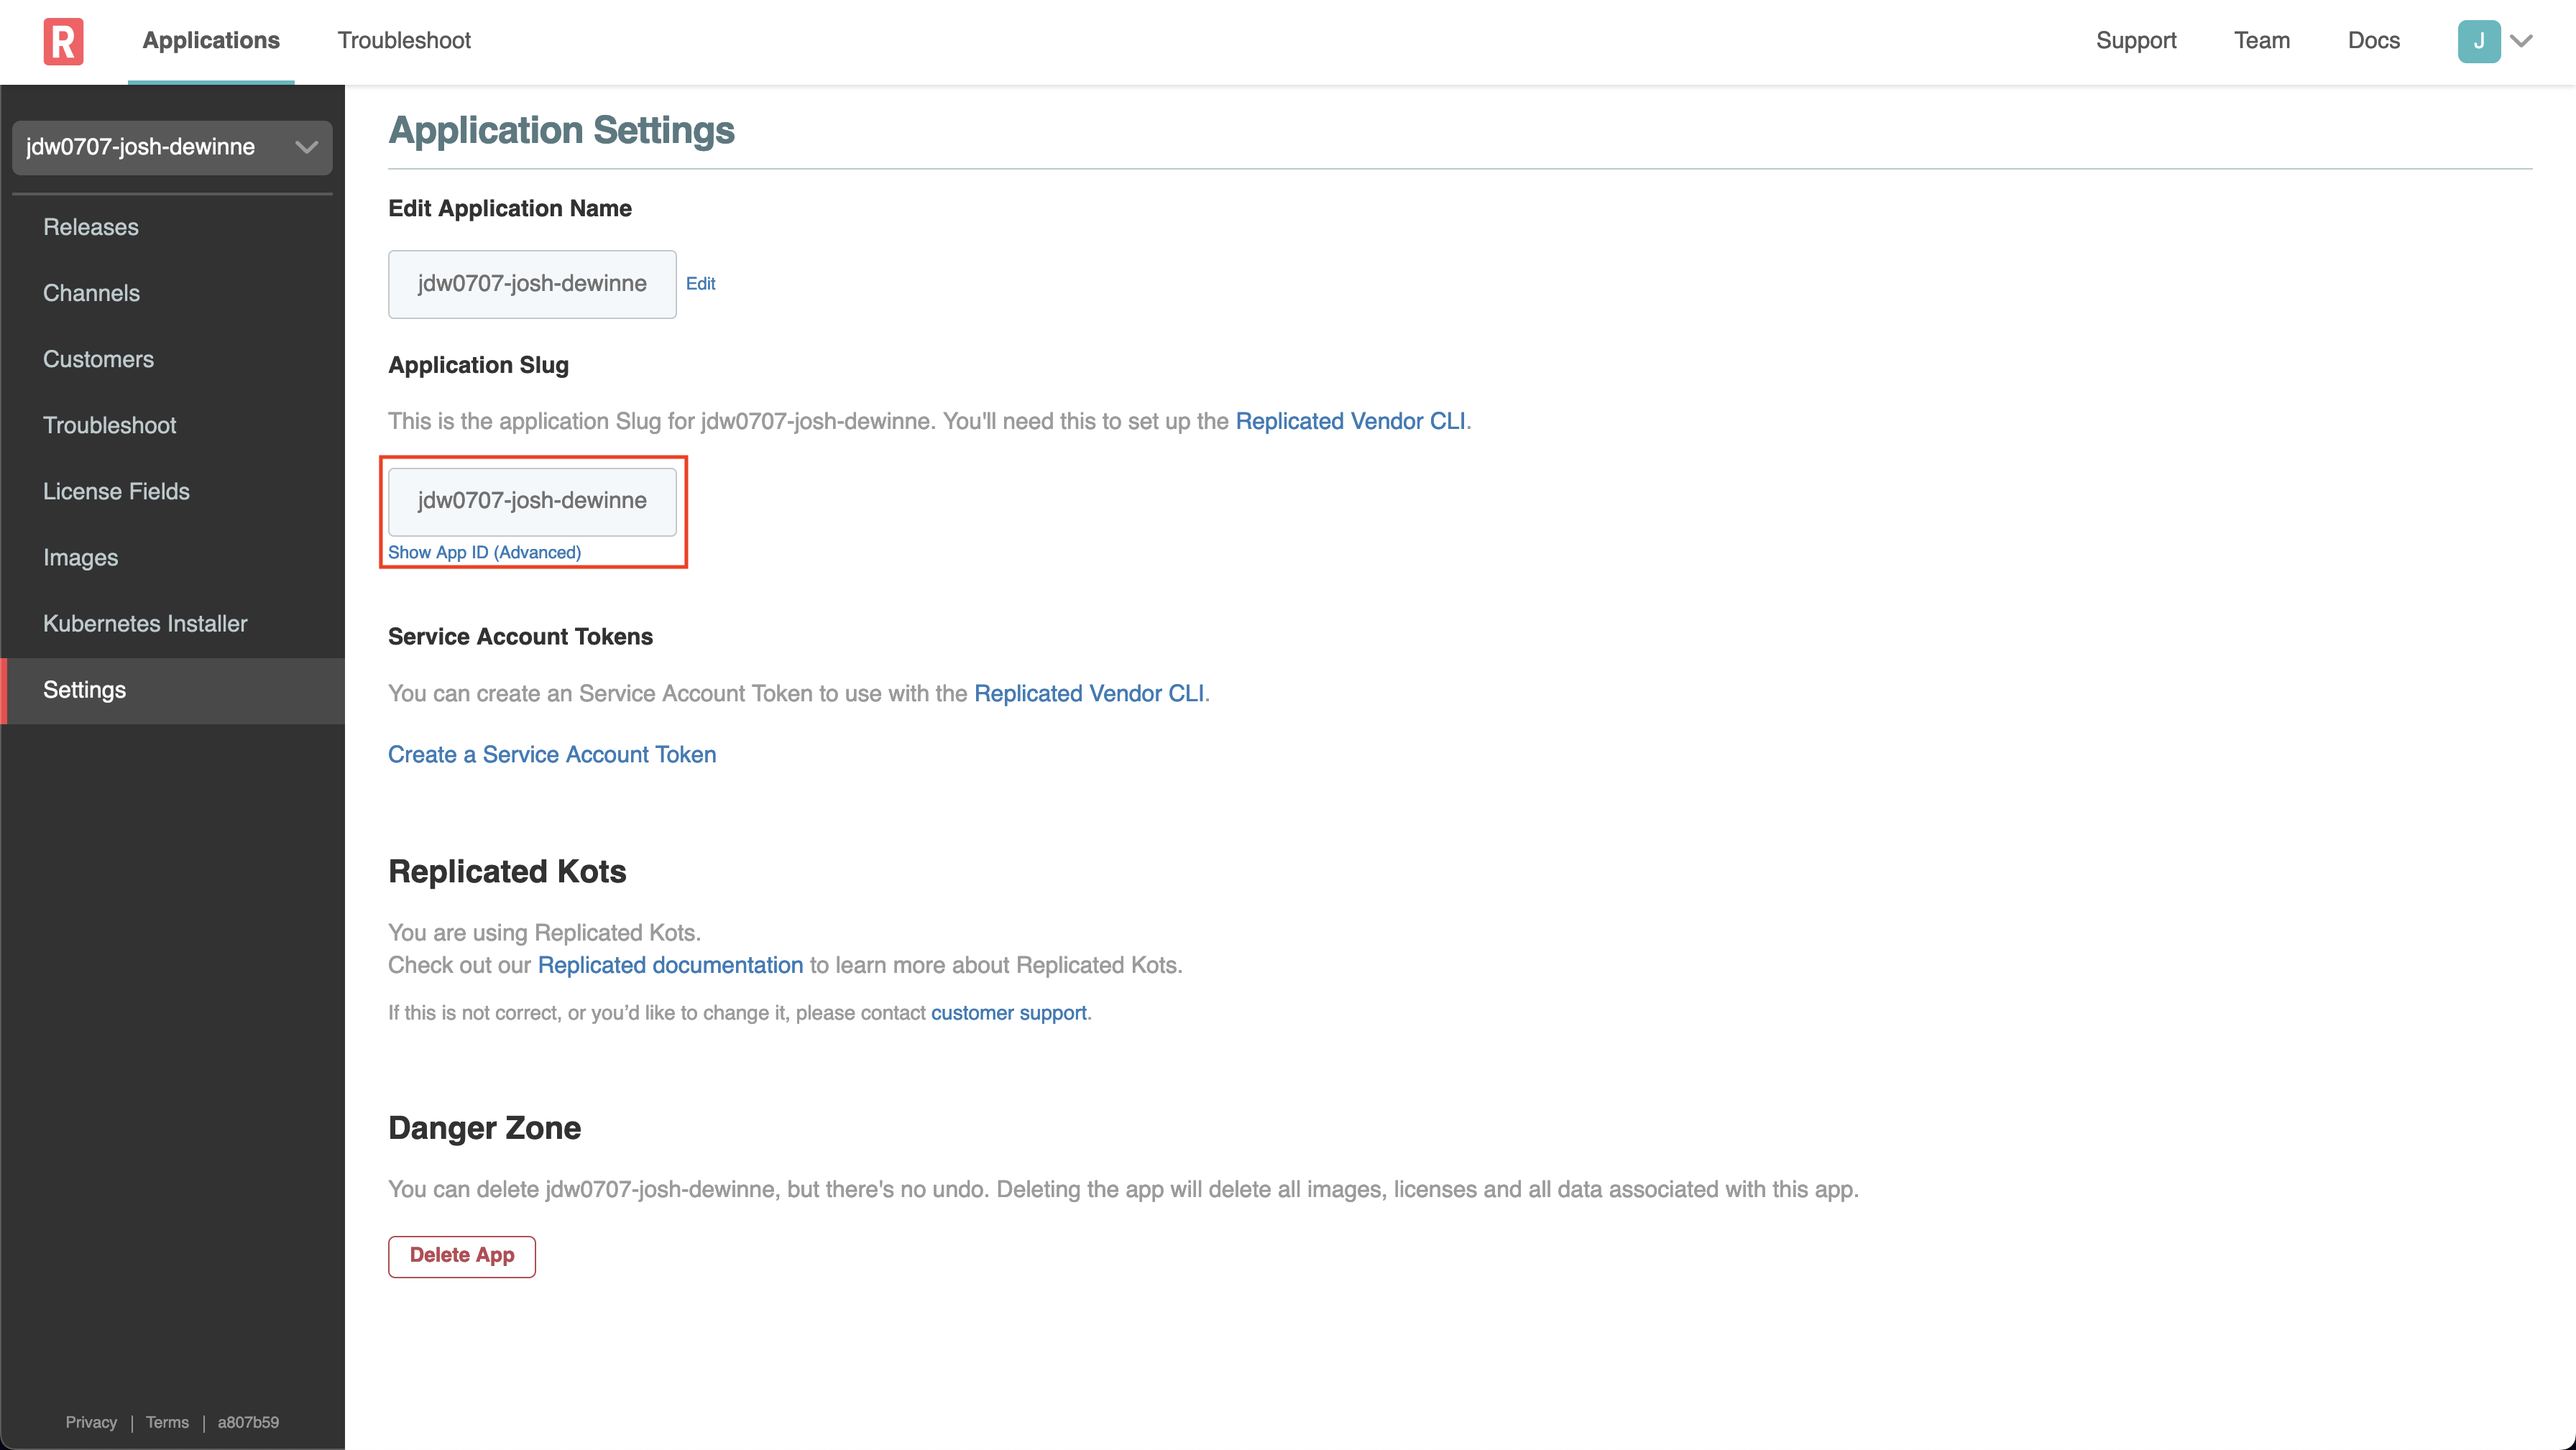
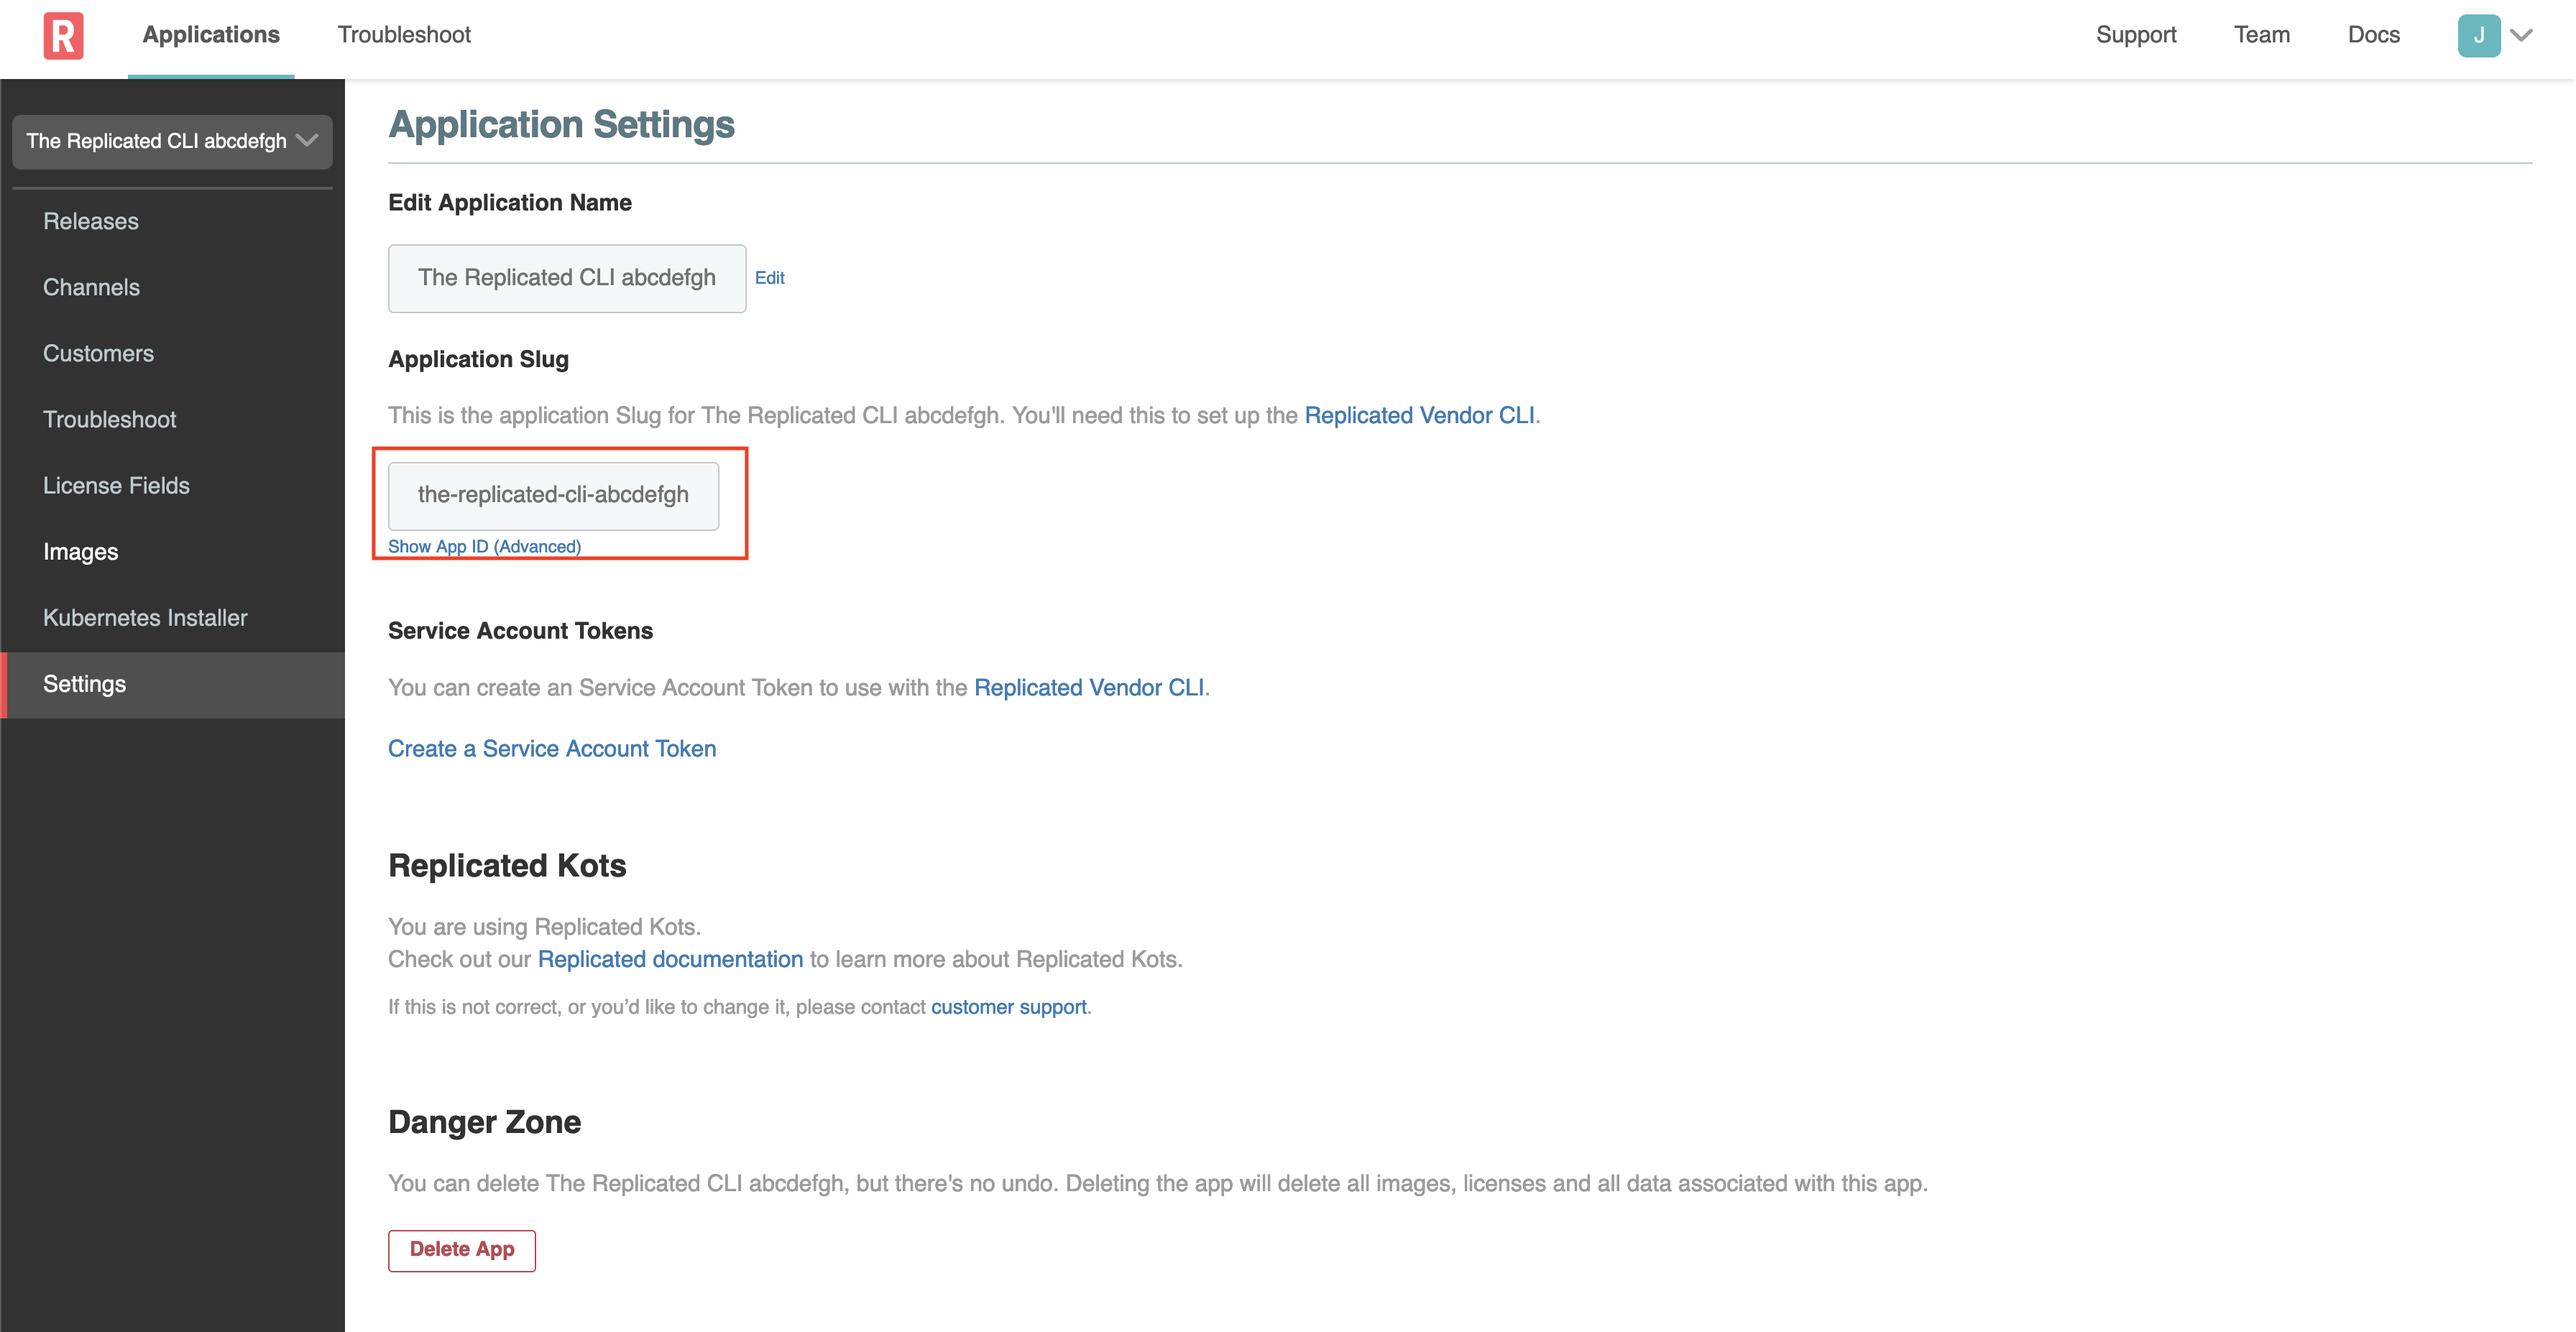
Fixes for replicated-cli track

diff --git a/instruqt/replicated-cli/03-releasing-your-updates/assignment.md b/instruqt/replicated-cli/03-releasing-your-updates/assignment.md
@@ -19,7 +19,7 @@ timelimit: 600
 ==============
 
 In the last challenge, we updated our release manifests to
-follow the adviced provided by the Replicated linter. We
+follow the advice provided by the Replicated linter. We
 need to release our changes in order for our customers to
 take advantage of them.
 
@@ -34,9 +34,8 @@ look at what channels are available.
 replicated channel ls
 ```
 
-You should get a list that has four or more channels in it. Our
-application has the default release channels as well as one
-channel we created for the lab. The names of your channels
+You should get a list that has 3 or more channels in it. Our
+application has the default release channels we created for the lab. The names of your channels
 should be the same as you see here. The other fields may
 vary.
 
@@ -45,10 +44,9 @@ ID                             NAME              RELEASE    VERSION
 2FK67d5b0y2ilwbAkouIm5Ly98U    Stable            1          0.0.1
 2FK67cR5l41w4FrJ17oQz1f0pDX    Beta              1          0.0.1
 2FK67bqiSUUpl0PpEHe8fZYuXXK    Unstable          2          Sample Track
-2FKLzwElQOFuHs6YlYEvZ6ncNEo    replicated-cli    3          The Replicated CLI
 ```
 
-We're going to release our changes on the `replicated-cli`
+We're going to release our changes on the `Stable`
 channel in the later steps.
 
 ### 2. Creating your first release
@@ -56,7 +54,7 @@ channel in the later steps.
 Let's create a release with our improved YAML files. We're going
 to create our release and make it available on the `Unstable` channel
 for internal user. After we review  the release, we'll promote
-it to our `replicated-cli` channel to simulate releasing to the customer.
+it to our `Stable` channel to simulate releasing to the customer.
 Make sure to change the version number (in my case, I'll go from
 `0.0.1` to `0.0.2`).
 
@@ -77,7 +75,7 @@ number.
 ```
 SEQUENCE    CREATED                 EDITED                  ACTIVE_CHANNELS
 4           2022-09-27T20:39:40Z    0001-01-01T00:00:00Z    Unstable
-3           2022-09-26T23:48:15Z    0001-01-01T00:00:00Z    replicated-cli
+3           2022-09-26T23:48:15Z    0001-01-01T00:00:00Z    Stable
 2           2022-09-26T21:39:47Z    0001-01-01T00:00:00Z
 1           2022-09-26T21:37:47Z    0001-01-01T00:00:00Z
 ```
@@ -88,7 +86,7 @@ and the active channels for older releases differ.
 ### 3. Promoting the release for customers
 
 To make the release available for customers, let's use our customer
-release channel `replicated-cli`. In a real use case, you might promote
+release channel `Stable`. In a real use case, you might promote
 through other channels like `Beta` before going to customers, but we'll
 skip ahead this time.
 
@@ -97,7 +95,7 @@ for your latest release (sequence `4` in my case). You're going to
 promote that release in the next command.
 
 ```
-replicated release promote [SEQUENCE] replicated-cli \
+replicated release promote [SEQUENCE] Stable \
   --version [NEW VERSION] --release-notes "Adds resource requests to our deployment"
 ```
 
@@ -108,11 +106,11 @@ replicated release ls
 ```
 
 Your new release is at the top of the list is now active on two
-channels, `Unstable` and `replicated-cli`.
+channels, `Unstable` and `Stable`.
 
 ```
 SEQUENCE    CREATED                 EDITED                  ACTIVE_CHANNELS
-4           2022-09-27T20:39:40Z    0001-01-01T00:00:00Z    Unstable,replicated-cli
+4           2022-09-27T20:39:40Z    0001-01-01T00:00:00Z    Unstable,Stable
 3           2022-09-26T23:48:15Z    0001-01-01T00:00:00Z
 2           2022-09-26T21:39:47Z    0001-01-01T00:00:00Z
 1           2022-09-26T21:37:47Z    0001-01-01T00:00:00Z

diff --git a/instruqt/replicated-cli/04-installing-your-release/assignment.md b/instruqt/replicated-cli/04-installing-your-release/assignment.md
@@ -77,7 +77,7 @@ using the `replicated` command line tool. Let's get it using the
 CLI.
 
 ```
-replicated channel inspect replicated-cli
+replicated channel inspect Stable
 ```
 
 We're going to install into an existing Kubernetes cluster.
@@ -86,24 +86,24 @@ You'll find that one listed first, with the label `EXISTING`.
 
 ```
 ID:             2FKLzwElQOFuHs6YlYEvZ6ncNEo
-NAME:           replicated-cli
+NAME:           Stable
 DESCRIPTION:
 RELEASE:        4
 VERSION:        0.0.1
 EXISTING:
 
     curl -fsSL https://kots.io/install | bash
-    kubectl kots install chuck-instruqt-replicon-2022q3-replabs-replicated-com/replicated-cli
+    kubectl kots install the-replicated-cli-abcdefgh
 
 EMBEDDED:
 
-    curl -fsSL https://k8s.kurl.sh/chuck-instruqt-replicon-2022q3-replabs-replicated-com-replicated-cli | sudo bash
+    curl -fsSL https://k8s.kurl.sh/the-replicated-cli-abcdefgh | sudo bash
 
 AIRGAP:
 
-    curl -fSL -o chuck-instruqt-replicon-2022q3-replabs-replicated-com-replicated-cli.tar.gz https://k8s.kurl.sh/bundle/chuck-instruqt-replicon-2022q3-replabs-replicated-com-replicated-cli.tar.gz
-    # ... scp or sneakernet chuck-instruqt-replicon-2022q3-replabs-replicated-com-replicated-cli.tar.gz to airgapped machine, then
-    tar xvf chuck-instruqt-replicon-2022q3-replabs-replicated-com-replicated-cli.tar.gz
+    curl -fSL -o the-replicated-cli-abcdefgh.tar.gz https://k8s.kurl.sh/bundle/the-replicated-cli-abcdefgh.tar.gz
+    # ... scp or sneakernet the-replicated-cli-abcdefgh.tar.gz to airgapped machine, then
+    tar xvf the-replicated-cli-abcdefgh.tar.gz
     sudo bash ./install.sh airgap
 ```
 
@@ -114,7 +114,7 @@ The command you'll use will look like this:
 
 ```
 curl -fsSL https://kots.io/install | bash
-kubectl kots install [YOUR APP NAME]/replicated-cli
+kubectl kots install [YOUR APP NAME]
 ```
 
 We'll come back to that in a later step.
@@ -126,7 +126,7 @@ to install any KOTS application. We're going to use the command-line
 to both create a customer and to download their license file.
 
 ```
-replicated customer create --name "Replicant" --channel replicated-cli
+replicated customer create --name "Replicant" --channel Stable
 ```
 
 once the customer is created, we'll download their license file to use
@@ -143,7 +143,7 @@ like this.
 
 ```
 curl -fsSL https://kots.io/install | bash
-kubectl kots install [YOUR APP NAME]/replicated-cli
+kubectl kots install [YOUR APP NAME]
 ```
 
 This command installs the `kots` plugin to `kubectl` and then
@@ -163,7 +163,7 @@ setting it on the command-line, let's use `this-is-unsafe` as
 a reminder not to leak secrets in the real world.
 
 ```
-kubectl kots install ${REPLICATED_APP}/replicated-cli --namespace kuard \
+kubectl kots install ${REPLICATED_APP} --namespace kuard \
   --shared-password this-is-unsafe --license-file ~/license.yaml
 ```
 

diff --git a/instruqt/replicated-cli/01-prepare-for-access/assignment.md b/instruqt/replicated-cli/01-prepare-for-access/assignment.md
@@ -43,25 +43,15 @@ This exercise is designed to give you a sandbox to ensure you have a basic under
 🚀 Let's start
 ==============
 
-### 1. Check Your Email!
+### 1. Vendor Portal login
 
-If you previously already done any tracks and accepted the invite for the Vendor Portal, you can skip this and go to section 2.
+To access the Vendor Portal, you will need your participant id. If you go to the Shell tab, it will show you the username and password to be used for the Vendor tab. It will be of the following format:
+```
+username: [PARTICIPANT_ID]@replicated-labs.com
+password: [PARTICIPANT_ID]
+```
 
-You should have received an invite via email to log into https://vendor.replicated.com -- you'll want to accept this invite and set your password.
-
-**Important Note:** It is important to logout of any existing session in the Replicated vendor portal so that when clicking on the Labs Account invitation email link it takes you to a specific new registration page where you enter your name and password details.  If you get a login screen then this is probably the issue.
-
-The email should look like this:
-
-<p align="center"><img src="../assets/email-invite.png" width=600></img></p>
-
-Once you click on the button, it should open a browser to a page similar to this:
-
-<p align="center"><img src="../assets/create-account.png" width=600></img></p>
-
-Fill in the rest of the form and click on the **Create Account** button to get started.
-
-Once you have created your account you should land on the Channels. Channels allow you to manage who has access to which releases of your application.
+Once you have the credentials, you can login into the Vendor tab and you should land on the Channels. Channels allow you to manage who has access to which releases of your application.
 
 
 ### 2. Configure environment

diff --git a/instruqt/replicated-cli/02-verifying-manifests/assignment.md b/instruqt/replicated-cli/02-verifying-manifests/assignment.md
@@ -22,7 +22,7 @@ timelimit: 600
 We've created a set of manifests for you that configures
 the "Kubernetes Up and Running" sample application to
 deploy with Replicated. In the next few challenges we'll
-validate those manifests and create a a new application
+validate those manifests and create a new application
 you can deploy using Replicated.
 
 ### 1. Verifying manifests
